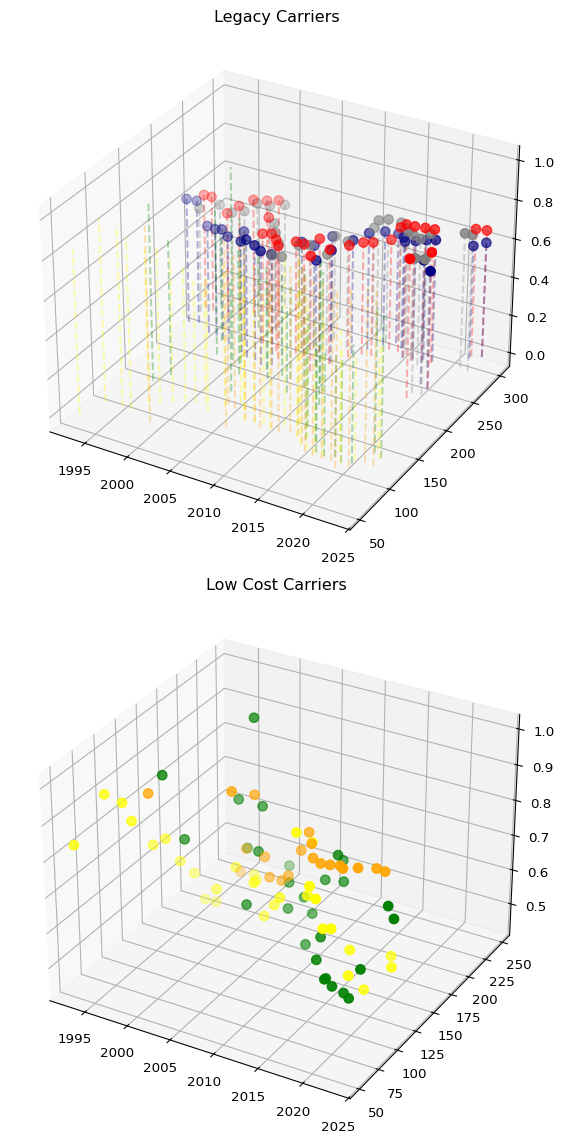
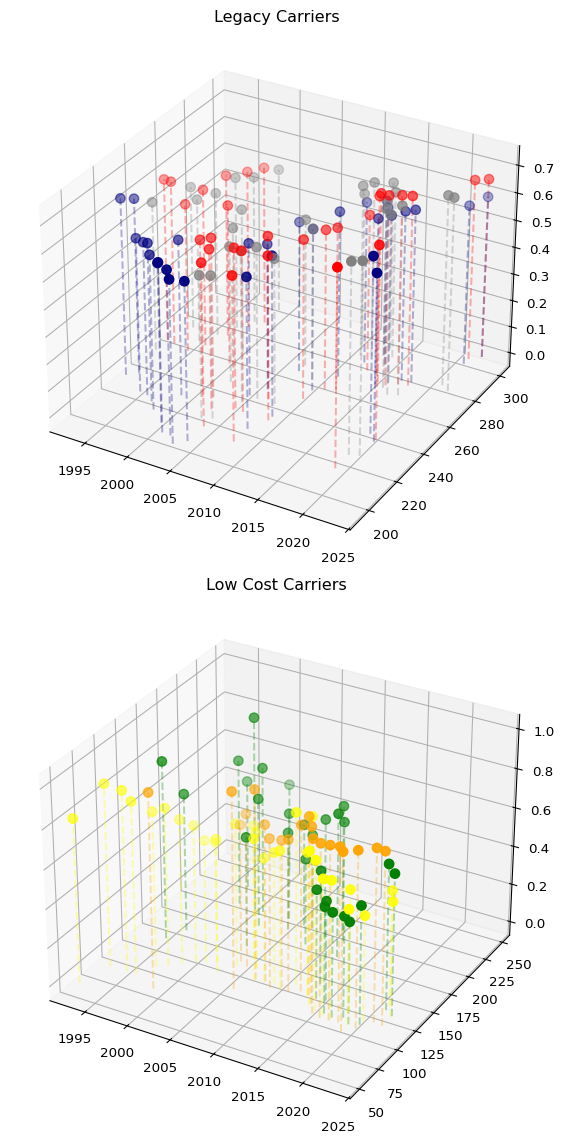
Finally fixed the 3D scatter

diff --git a/readme.md b/readme.md
@@ -144,17 +144,17 @@ year_routes
 | Year | carrier_lg | Number of Routes |
 |------|------------|------------------|
 | i64  | str        | u32              |
-| 1993 | "DL"       | 1607             |
-| 1993 | "UA"       | 1126             |
 | 1993 | "AA"       | 2102             |
+| 1993 | "DL"       | 1607             |
 | 1993 | "NK"       | 7                |
-| 1994 | "UA"       | 247              |
+| 1993 | "UA"       | 1126             |
+| 1994 | "NK"       | 2                |
 | …    | …          | …                |
-| 2023 | "UA"       | 1146             |
-| 2023 | "F9"       | 107              |
 | 2023 | "AA"       | 1794             |
+| 2023 | "F9"       | 107              |
+| 2023 | "UA"       | 1146             |
+| 2023 | "NK"       | 105              |
 | 2023 | "G4"       | 216              |
-| 2023 | "DL"       | 891              |
 
 </div>
 
@@ -280,17 +280,17 @@ rates_market
 | Year | carrier_lg | Average Rate | Average Market Share |
 |------|------------|--------------|----------------------|
 | i64  | str        | f64          | f64                  |
-| 1993 | "DL"       | 224.737063   | 0.655252             |
-| 1993 | "AA"       | 253.147574   | 0.605224             |
 | 1993 | "UA"       | 244.999103   | 0.555604             |
 | 1993 | "NK"       | 52.204286    | 0.837143             |
-| 1994 | "NK"       | 78.725       | 0.935                |
+| 1993 | "DL"       | 224.737063   | 0.655252             |
+| 1993 | "AA"       | 253.147574   | 0.605224             |
+| 1994 | "DL"       | 228.005424   | 0.648814             |
 | …    | …          | …            | …                    |
-| 2023 | "UA"       | 272.985419   | 0.711748             |
-| 2023 | "NK"       | 116.626286   | 0.590725             |
-| 2023 | "AA"       | 300.202664   | 0.664086             |
-| 2023 | "G4"       | 105.35662    | 0.877016             |
 | 2023 | "F9"       | 118.473458   | 0.722147             |
+| 2023 | "UA"       | 272.985419   | 0.711748             |
+| 2023 | "DL"       | 300.043861   | 0.600773             |
+| 2023 | "G4"       | 105.35662    | 0.877016             |
+| 2023 | "AA"       | 300.202664   | 0.664086             |
 
 </div>
 
@@ -327,7 +327,7 @@ for data, label, color in low_cost:
     ax2.scatter(data['Year'], data['Average Rate'], data['Average Market Share'], label = label, c = color, s = 50)
 
     for x, y, z in zip(data['Year'], data['Average Rate'], data['Average Market Share']):
-        ax1.plot([x,x], [y,y], [0,z], c = color, label = label, alpha = 0.3, linestyle = '--')
+        ax2.plot([x,x], [y,y], [0,z], c = color, label = label, alpha = 0.3, linestyle = '--')
 
 ax1.set_title('Legacy Carriers')
 ax2.set_title('Low Cost Carriers')